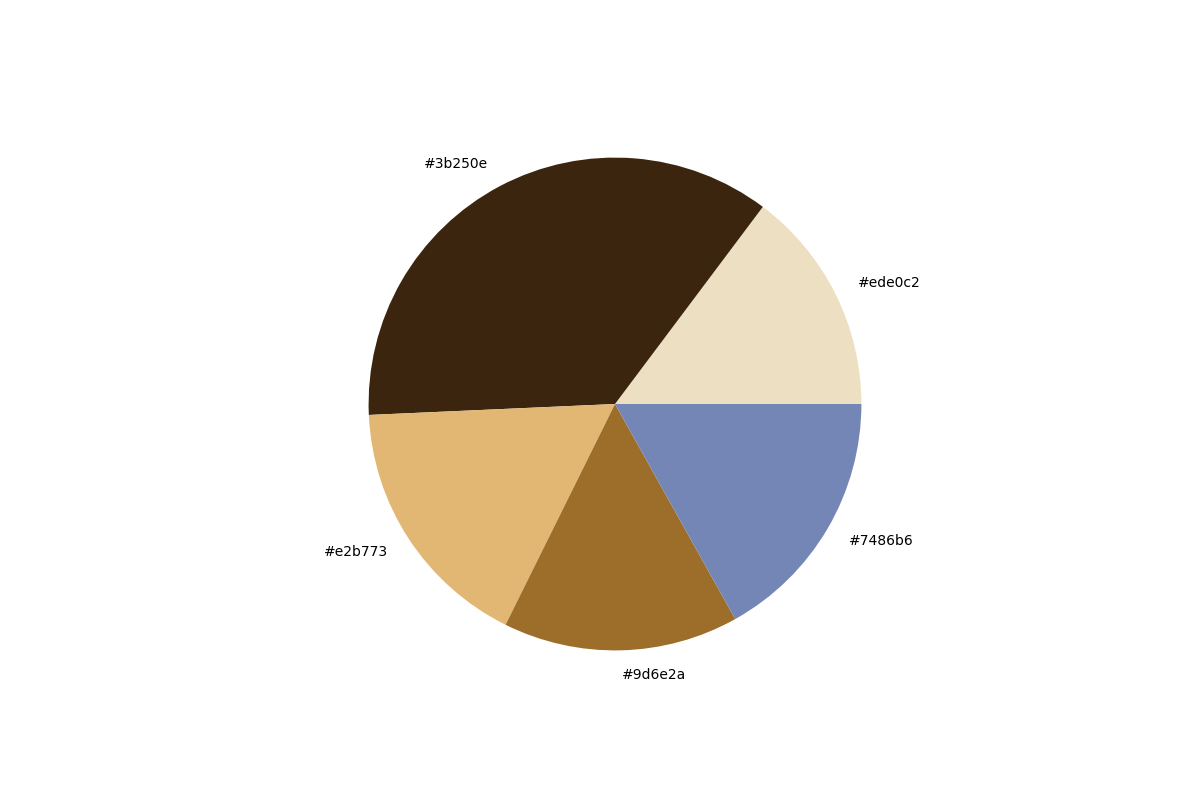
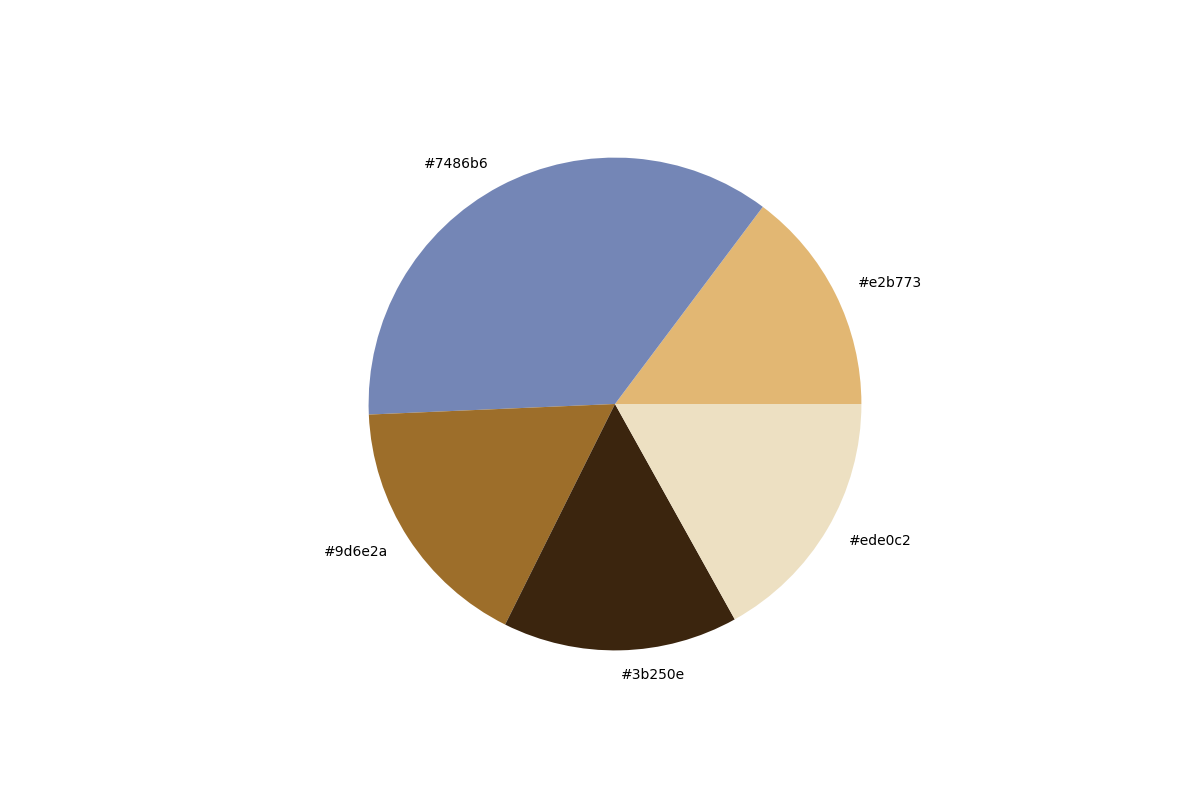
merged folders

diff --git a/color_detection.py b/color_detection.py
@@ -3,6 +3,39 @@
 import cv2
 import pandas as pd
 from colorthief import ColorThief
+from collections import Counter
+from sklearn.cluster import KMeans
+from matplotlib import colors
+import matplotlib.pyplot as plt
+import numpy as np
+
+image = cv2.imread('rFPki.jpg')
+image = cv2.cvtColor(image, cv2.COLOR_BGR2RGB)
+plt.imshow(image)
+
+def rgb_to_hex(rgb_color):
+    hex_color = "#"
+    for i in rgb_color:
+        i = int(i)
+        hex_color += ("{:02x}".format(i))
+    return hex_color
+
+
+modified_img = cv2.resize(image, (900, 600), interpolation = cv2.INTER_AREA)
+modified_img = modified_img.reshape(modified_img.shape[0]*modified_img.shape[1], 3)
+
+
+clf = KMeans(n_clusters=5)
+color_labels = clf.fit_predict(modified_img)
+center_colors = clf.cluster_centers_
+counts = Counter(color_labels)
+ordered_colors = [center_colors[i] for i in counts.keys()]
+hex_colors = [rgb_to_hex(ordered_colors[i]) for i in counts.keys()]
+plt.figure(figsize=(12, 8))
+plt.pie(counts.values(), labels=hex_colors, colors=hex_colors)
+plt.savefig("color_analysis_report.png")
+print(hex_colors)
+
 
 
 # img_path = r'C:\Users\Balaji\Downloads\color detection\colorpic'
